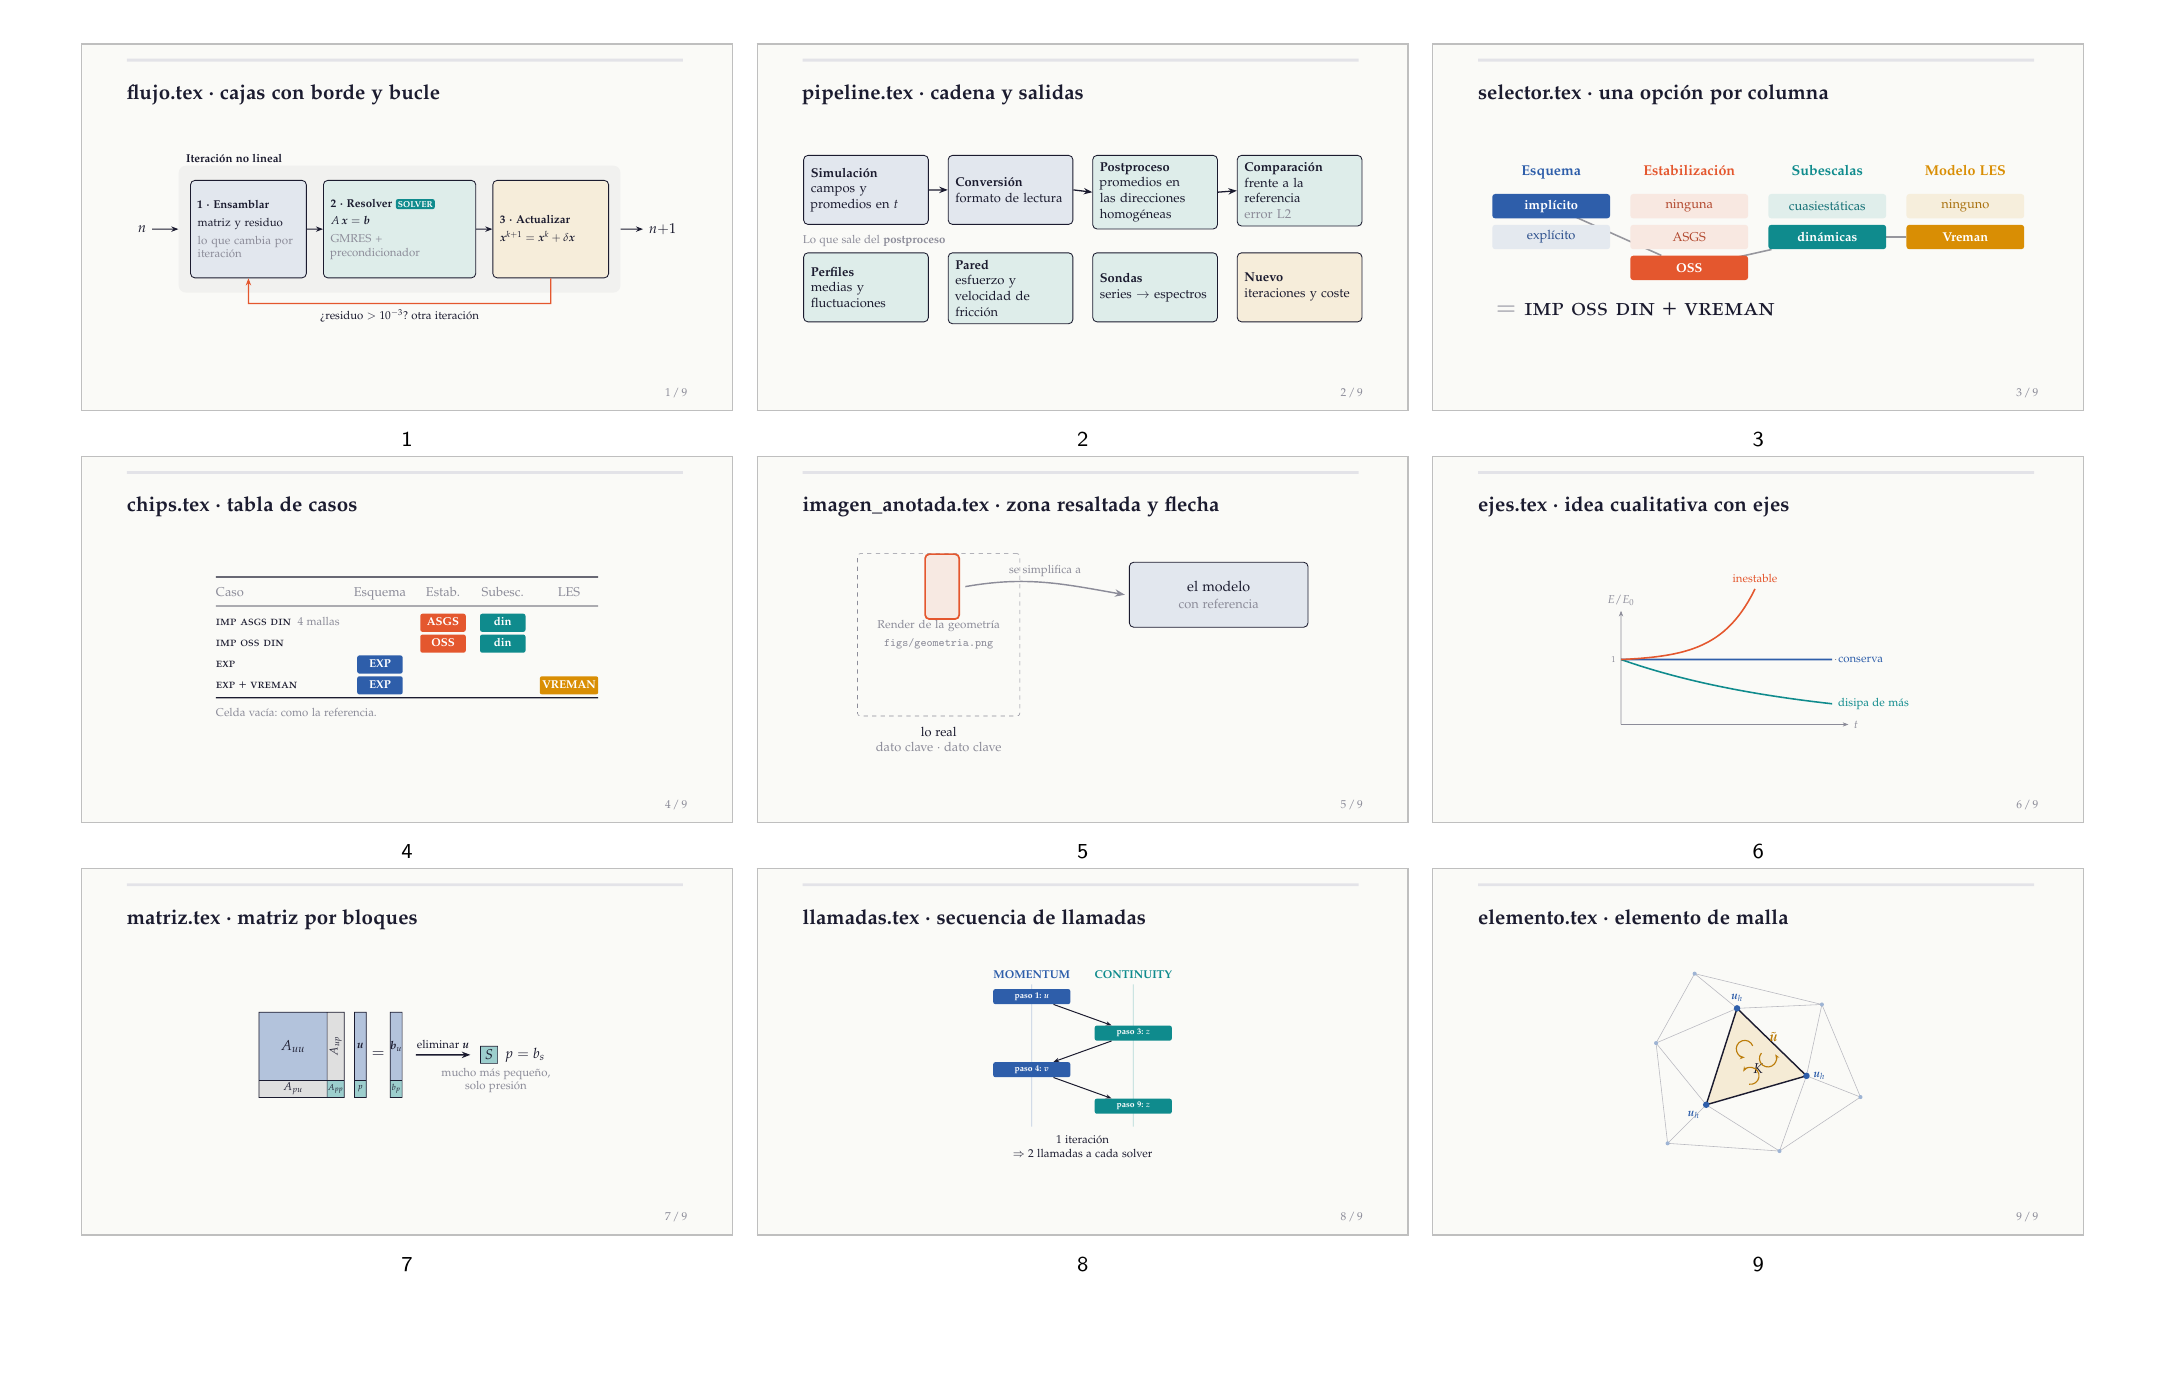
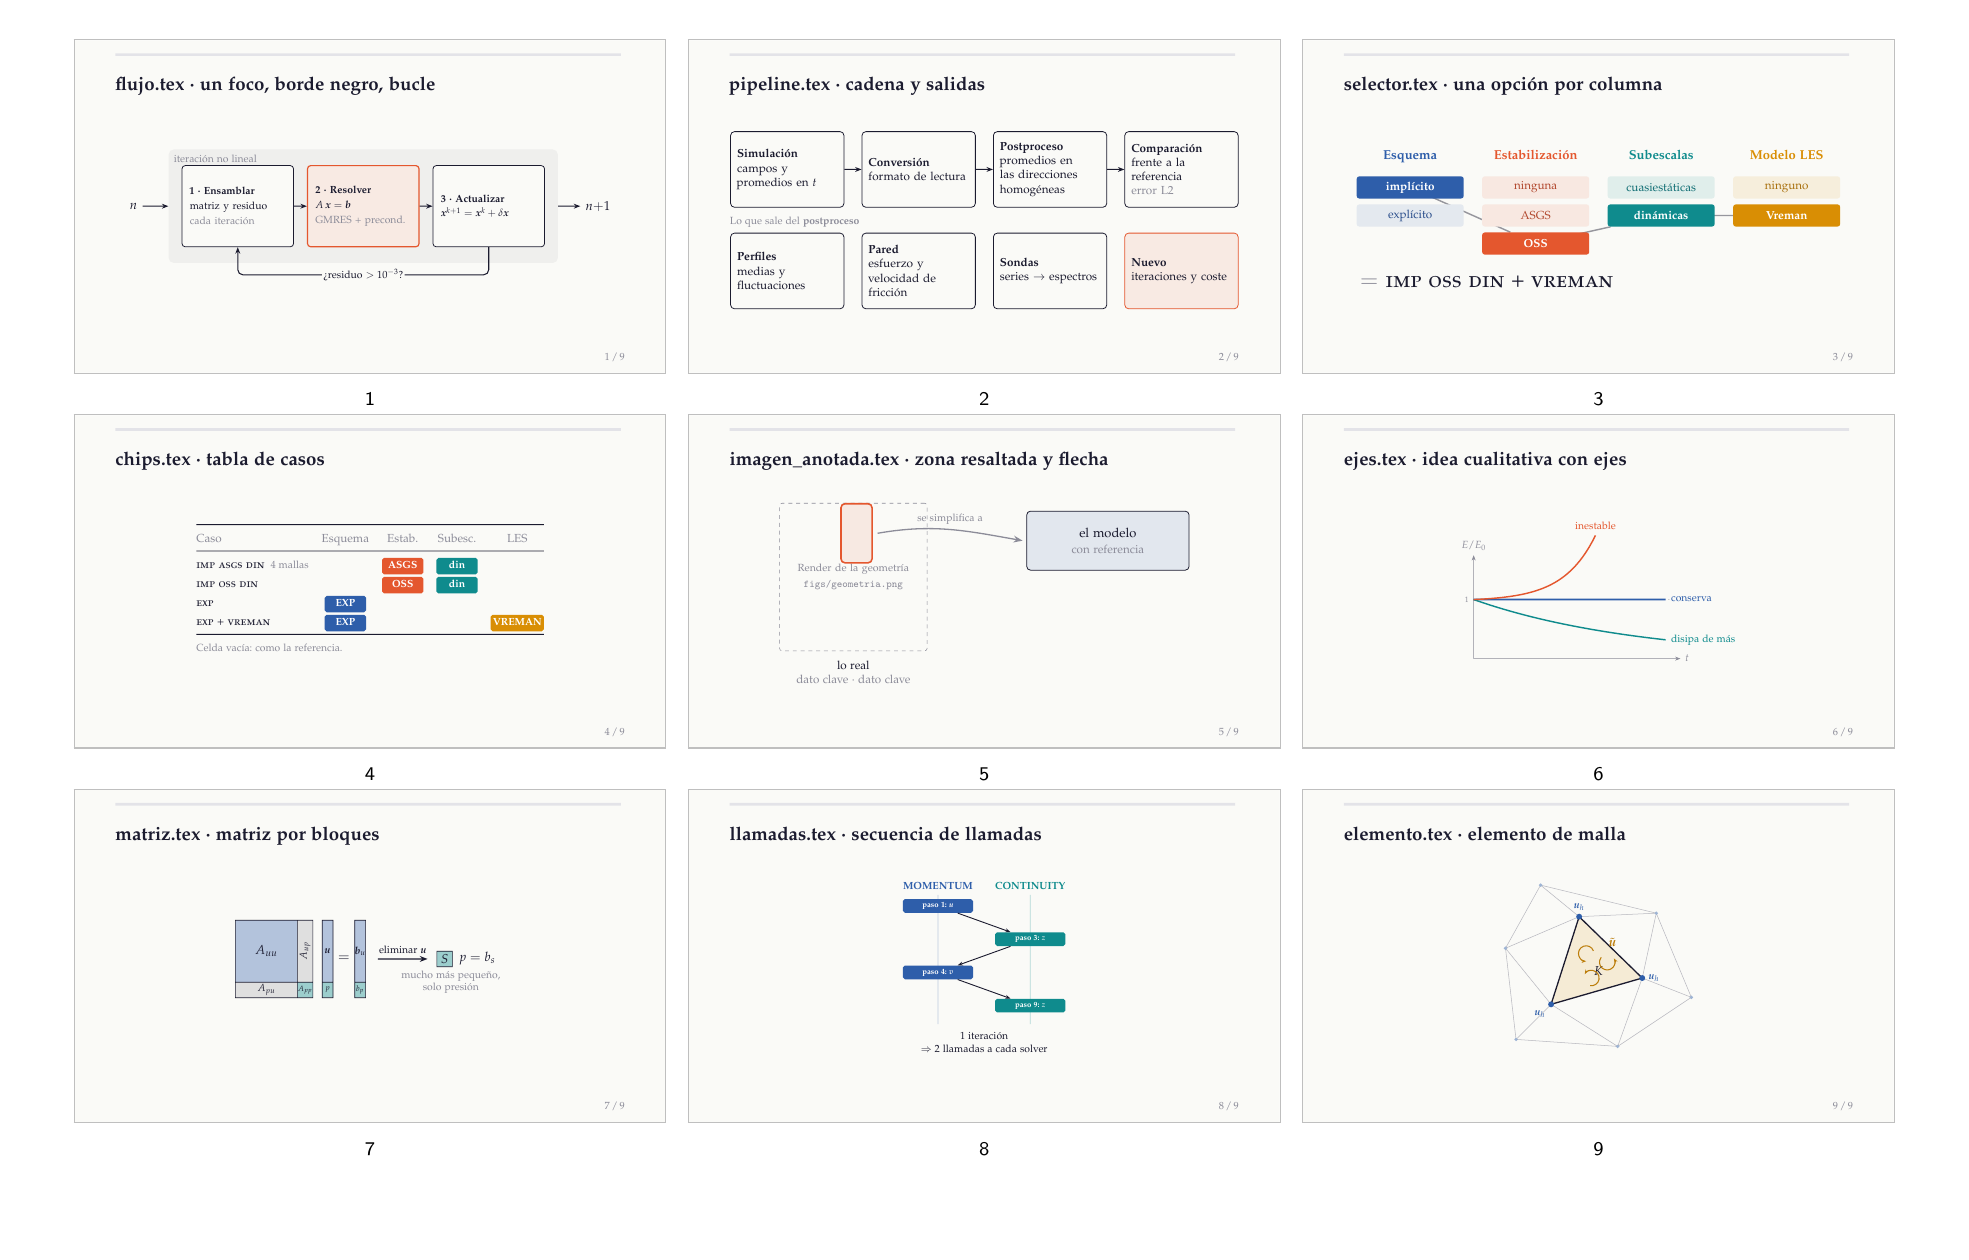
Diagramas pasan a tikz-charlie; --autor/--institucion; diagramas-charla01

diff --git a/docs/muestra/main.tex b/docs/muestra/main.tex
@@ -7,9 +7,9 @@
 \def\fondoportada{pulmones}
 \def\progreso{numeros}\def\logos{harmonie-favicon,bsc}\def\logopie{tenue}
 \def\estilodir{../../assets/estilo/}
-\makeatletter\def\input@path{{../../assets/estilo/}{../../assets/}}\makeatother
+\makeatletter\def\input@path{{../../assets/estilo/}{../../../tikz-charlie/assets/plantillas/}}\makeatother
 \input{preambulo}
-\input{diagramas/selector.tex}
+\input{selector.tex}
 
 \title{Turbulent pipe flow at $\mathrm{Re}_\tau = 180$}
 \subtitle{Methods, meshes and stabilisations in Alya}
@@ -40,7 +40,7 @@
 \end{frame}
 
 \begin{frame}{One time step: assemble, solve, update}
-  \centering\input{diagramas/flujo.tex}
+  \centering\input{flujo.tex}
 \end{frame}
 
 \begin{frame}[c]

diff --git a/assets/plantilla/main.tex b/assets/plantilla/main.tex
@@ -15,8 +15,8 @@
 
 \title{__TITULO__}
 \subtitle{}
-\author{Carlos Arnedo Joya}
-\institute{Barcelona Supercomputing Center}
+\author{__AUTOR__}
+\institute{__INSTITUCION__}
 \date{\today}
 
 \begin{document}
